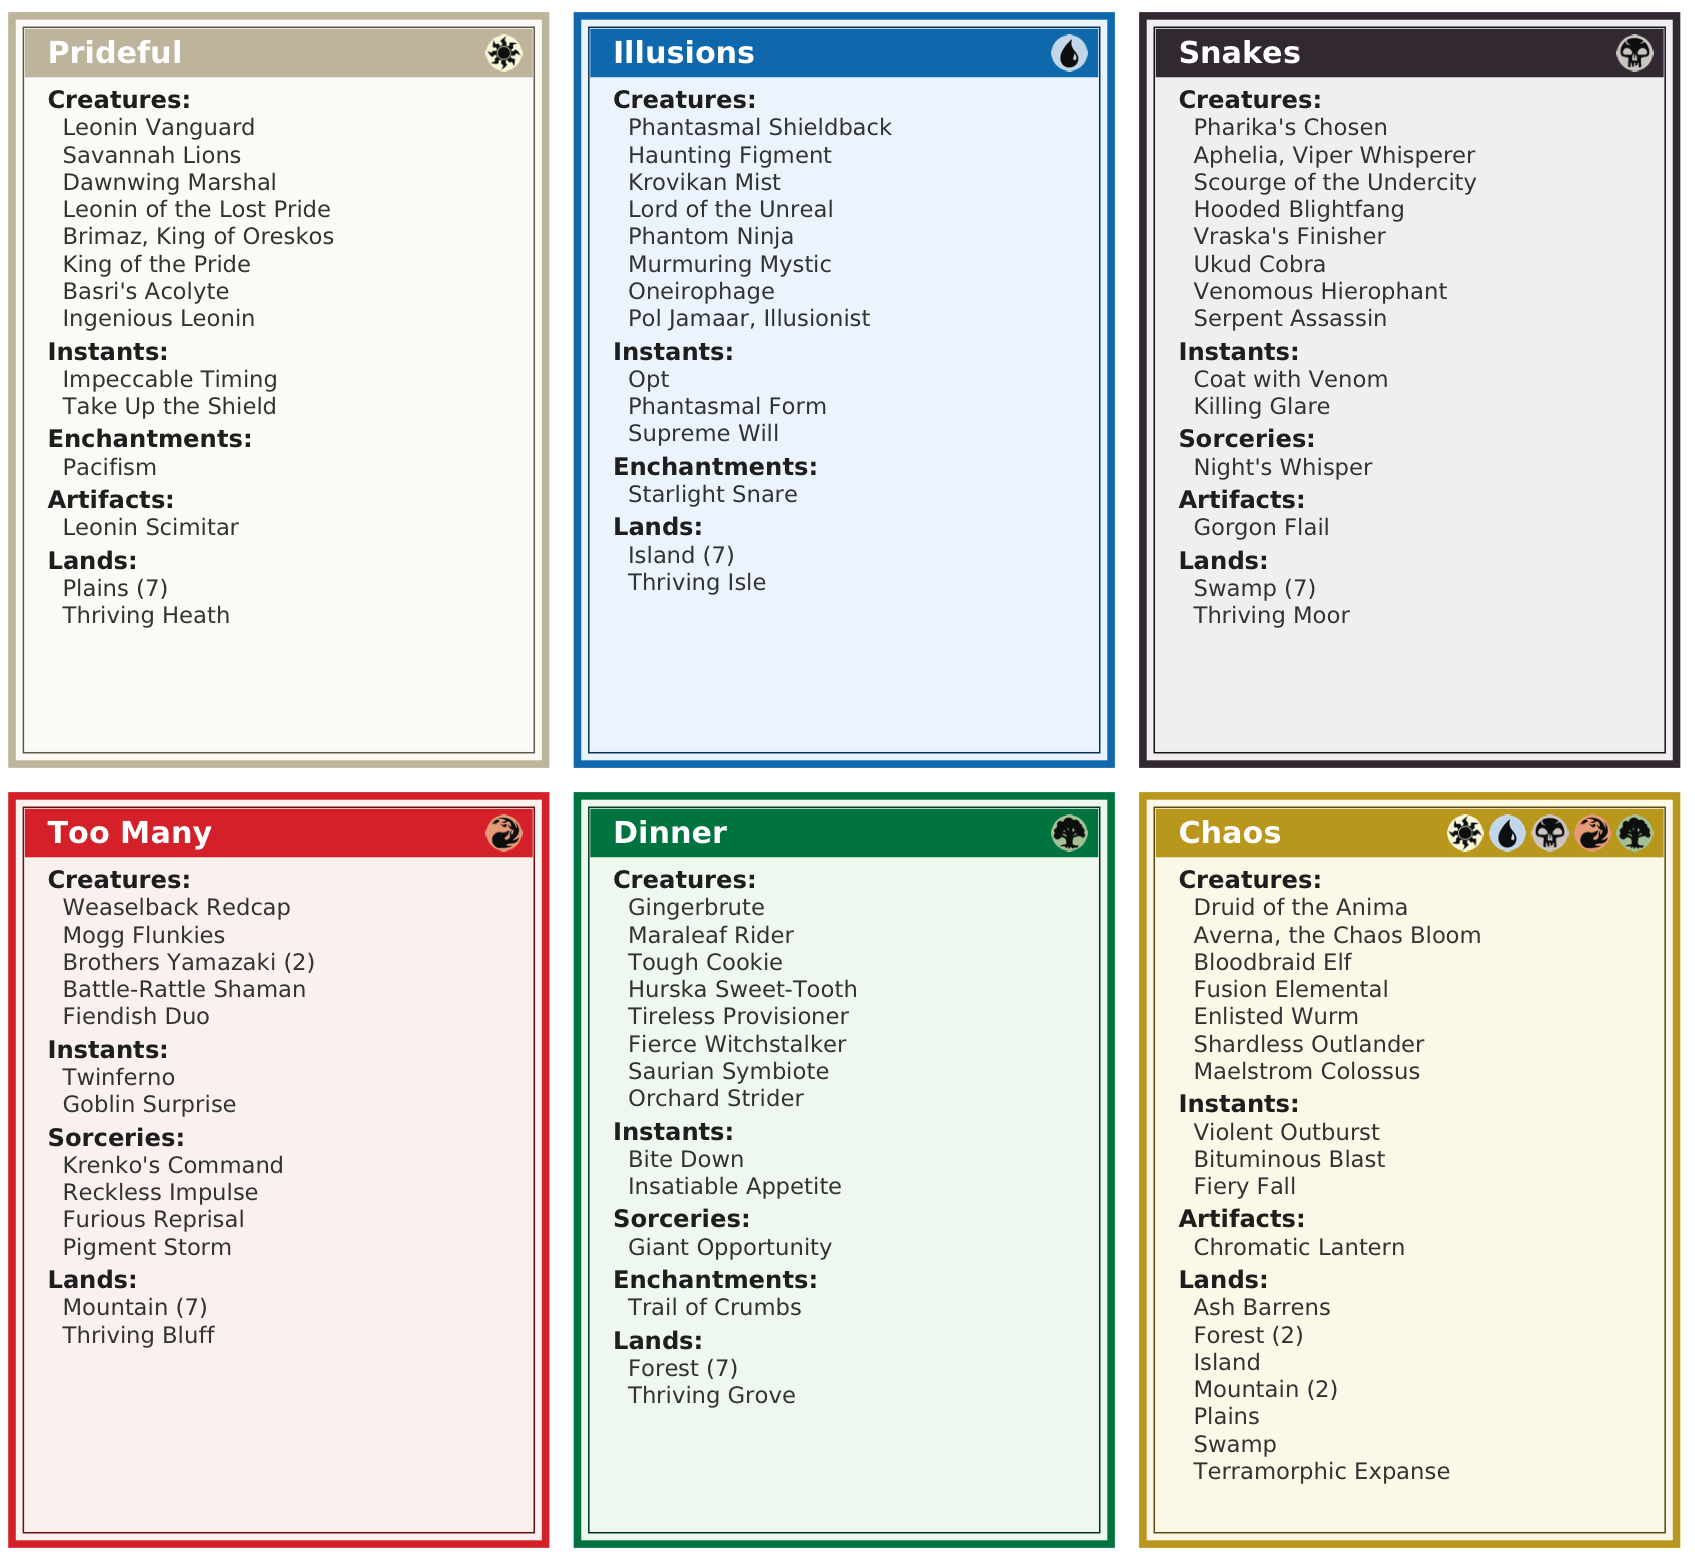
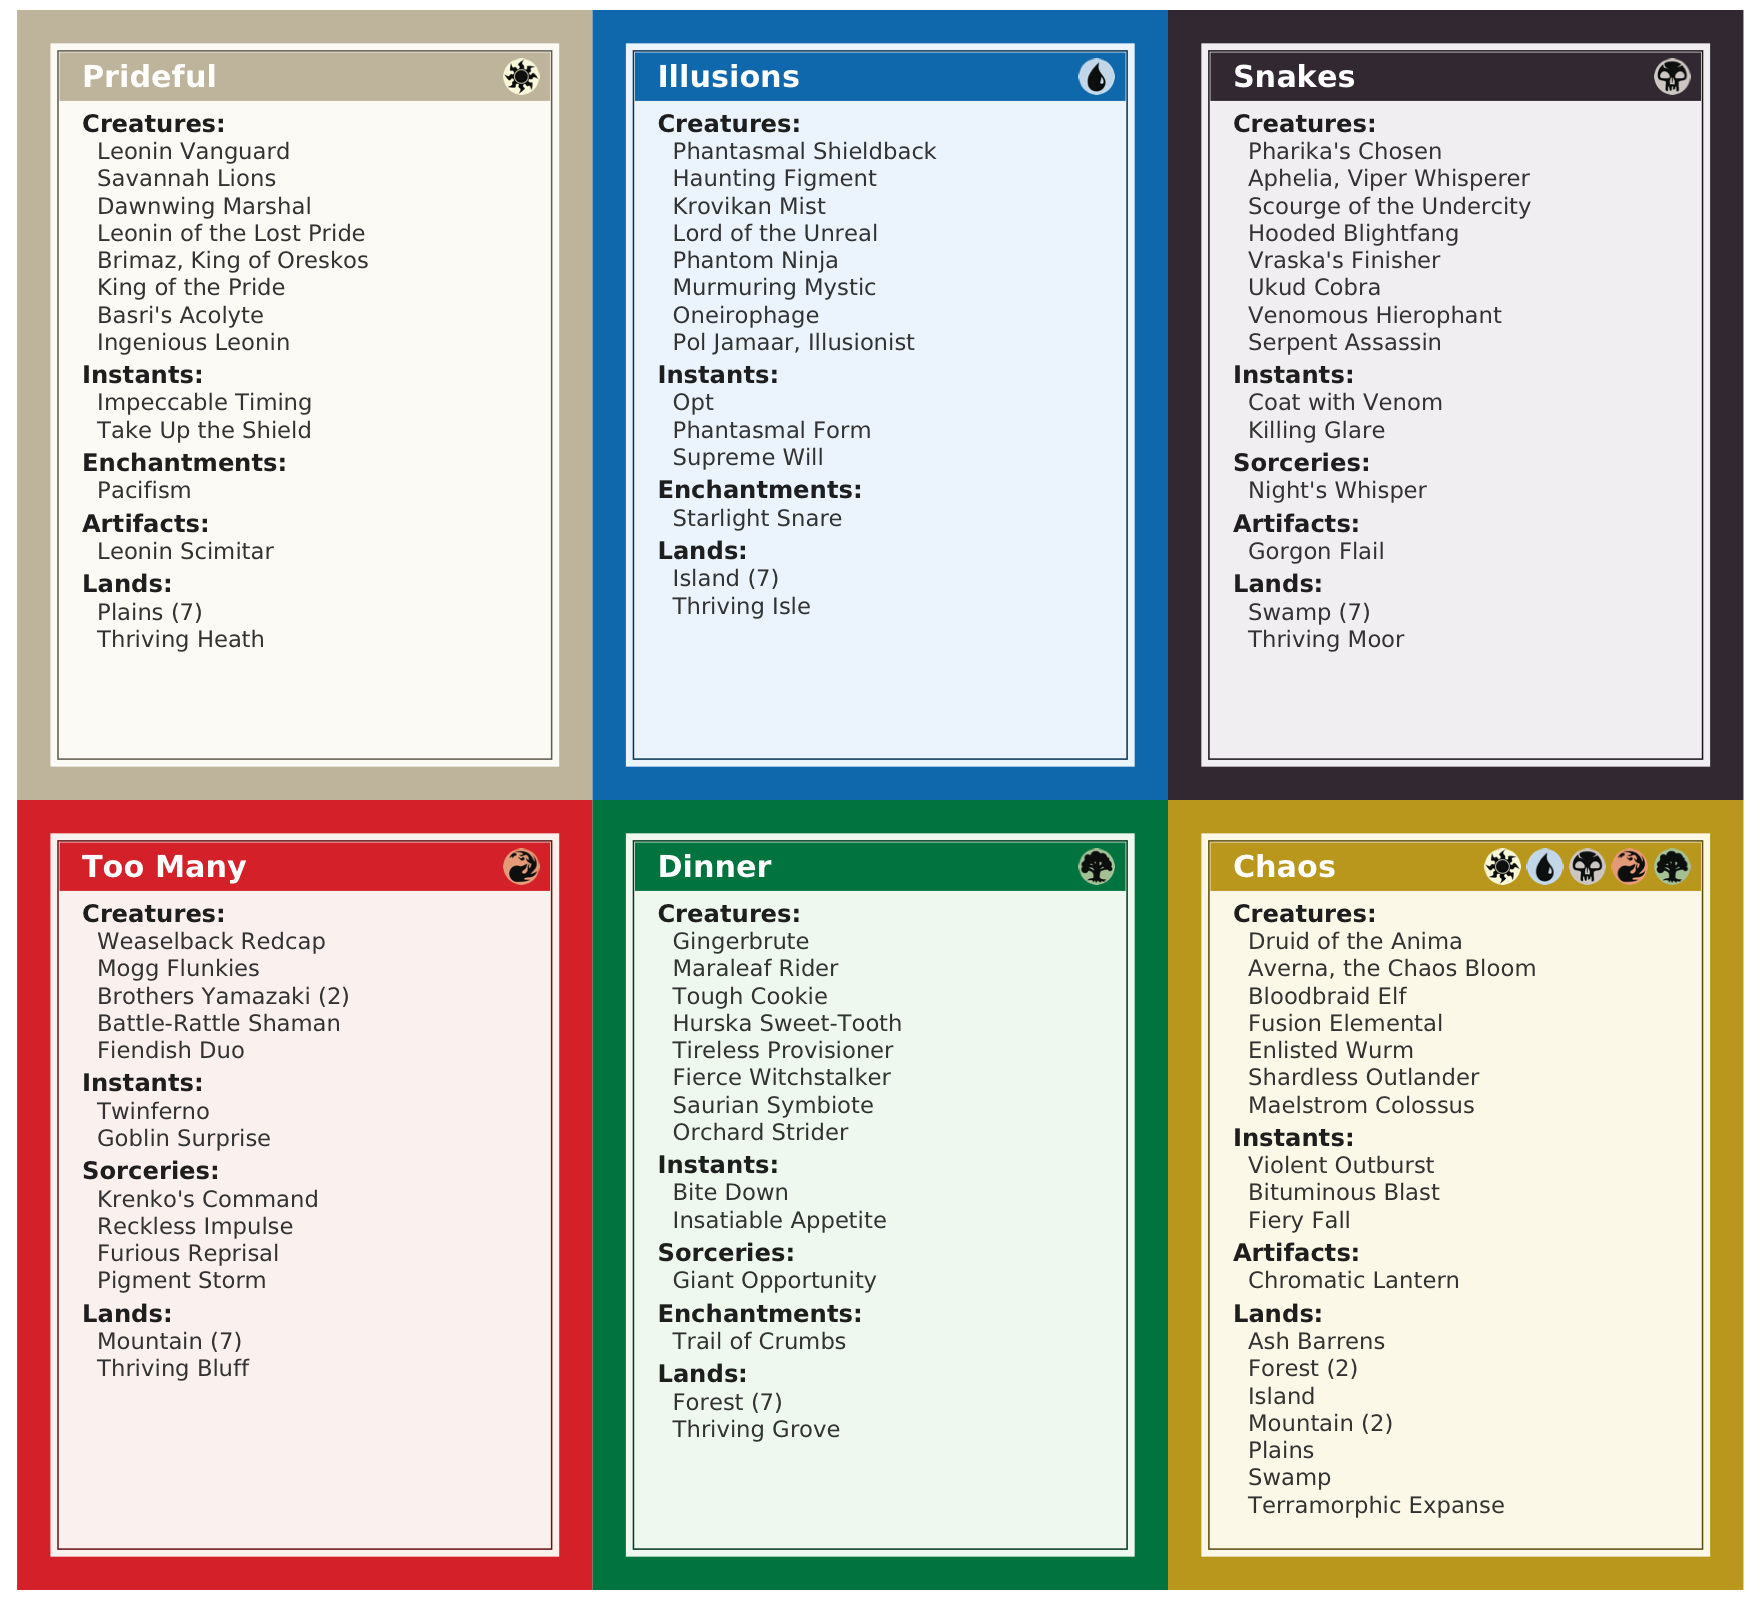
shrink card size and add bleed margin for sleeved MTG cards
Cards are now 61x86mm (1mm inset per side from standard 63x88mm) so the
decklist doesn't extend past the rounded corners of a real card when sleeved
together. Colored border extends ~3mm beyond the card frame as a bleed margin
for cutting. No white gaps between cards in the batch grid.

Changed region(s): [[0.0, 0.0, 1.0, 1.0]]

diff --git a/pdf/layout.go b/pdf/layout.go
@@ -15,8 +15,8 @@ import (
 
 // Card dimensions in PDF points (1 inch = 72 points).
 const (
-	cardW = 178.6 // 63mm (MTG card width)
-	cardH = 249.4 // 88mm (MTG card height)
+	cardW = 172.9 // 61mm (1mm inset from MTG card edge for rounded corners)
+	cardH = 243.7 // 86mm (1mm inset from MTG card edge for rounded corners)
 
 	pageW = 612 // 8.5 inches (US Letter)
 	pageH = 792 // 11 inches (US Letter)
@@ -52,7 +52,8 @@ const (
 const (
 	gridCols = 3   // card columns per page in batch mode
 	gridRows = 3   // card rows per page in batch mode
-	cardGap  = 8.0 // spacing between cards in the grid
+	cardGap  = 0.0 // no gap — bleed areas fill the space between cards
+	bleed    = 8.5 // ~3mm bleed around each card for cutting margin
 )
 
 // colorScheme defines the border/bar color and background tint for a color identity.
@@ -77,13 +78,13 @@ var colorMap = map[string]colorScheme{
 func RenderSingle(d deck.Deck, outPath string) error {
 	pdf := &gopdf.GoPdf{}
 	pdf.Start(gopdf.Config{
-		PageSize: gopdf.Rect{W: cardW, H: cardH},
+		PageSize: gopdf.Rect{W: cardW + 2*bleed, H: cardH + 2*bleed},
 	})
 	if err := setupFonts(pdf); err != nil {
 		return fmt.Errorf("setup fonts: %w", err)
 	}
 	pdf.AddPage()
-	renderCard(pdf, d, 0, 0)
+	renderCard(pdf, d, bleed, bleed)
 	return pdf.WritePdf(outPath)
 }
 
@@ -100,9 +101,13 @@ func RenderBatch(decks []deck.Deck, outPath string) error {
 
 	perPage := gridCols * gridRows
 
-	// Center the grid on the page, accounting for gaps between cards.
-	gridW := float64(gridCols)*cardW + float64(gridCols-1)*cardGap
-	gridH := float64(gridRows)*cardH + float64(gridRows-1)*cardGap
+	// Each cell includes the card plus bleed on all sides.
+	cellW := cardW + 2*bleed
+	cellH := cardH + 2*bleed
+
+	// Center the grid on the page.
+	gridW := float64(gridCols) * cellW
+	gridH := float64(gridRows) * cellH
 	offsetX := (pageW - gridW) / 2
 	offsetY := (pageH - gridH) / 2
 
@@ -113,8 +118,9 @@ func RenderBatch(decks []deck.Deck, outPath string) error {
 		slot := i % perPage
 		col := slot % gridCols
 		row := slot / gridCols
-		x := offsetX + float64(col)*(cardW+cardGap)
-		y := offsetY + float64(row)*(cardH+cardGap)
+		// Position card content at bleed offset within each cell.
+		x := offsetX + float64(col)*cellW + bleed
+		y := offsetY + float64(row)*cellH + bleed
 		renderCard(pdf, d, x, y)
 	}
 

diff --git a/pdf/render.go b/pdf/render.go
@@ -57,13 +57,16 @@ type cardRenderer struct {
 	scheme colorScheme
 }
 
-// drawFrame draws the outer border, tinted background, and inner frame line.
+// drawFrame draws the bleed area, outer border, tinted background, and inner frame line.
 func (cr *cardRenderer) drawFrame() {
 	b := cr.scheme.border
 	bg := cr.scheme.bg
 
+	// Bleed area — extend border color beyond card bounds for cutting margin.
+	cr.pdf.SetFillColor(b[0], b[1], b[2])
+	cr.pdf.RectFromUpperLeftWithStyle(cr.x-bleed, cr.y-bleed, cardW+2*bleed, cardH+2*bleed, "F")
+
 	// Tinted background with color-matched border.
-	// Inset by half the stroke width so the border stays within card bounds.
 	half := outerBorderW / 2
 	cr.pdf.SetFillColor(bg[0], bg[1], bg[2])
 	cr.pdf.SetStrokeColor(b[0], b[1], b[2])

diff --git a/README.md b/README.md
@@ -1,8 +1,14 @@
 # jumpforge
 
-A Go CLI tool that takes a text decklist for a Magic: The Gathering Jumpstart pack and generates a printable PDF decklist card with a color-identity-matched border. Each card is sized at 63 x 88mm (standard MTG card dimensions) so it can be sleeved alongside the deck. See [Output](#output) for details.
+A Go CLI tool that takes a text decklist for a Magic: The Gathering Jumpstart pack and generates a printable PDF decklist card with a color-identity-matched border. Each card is sized at 61 x 86mm (slightly smaller than the 63 x 88mm MTG card) so it doesn't extend past the rounded corners of a real card when sleeved together. See [Output](#output) for details.
 
 ![Example batch output showing six Jumpstart decklists](docs/example.png)
+
+### Printing and Cutting
+
+Each card is printed with a colored bleed margin extending beyond the card border. This means you don't have to carefully cut along the border lines — cut anywhere in the bleed area and the result still looks clean. The bleed areas of adjacent cards touch with no white gaps to minimize wasted paper.
+
+To use: print the PDF at 100% scale (no "fit to page"), cut out each card along the outer border, and optionally round the corners. Slide the card in front of a real MTG card in a sleeve.
 
 ## Install
 
